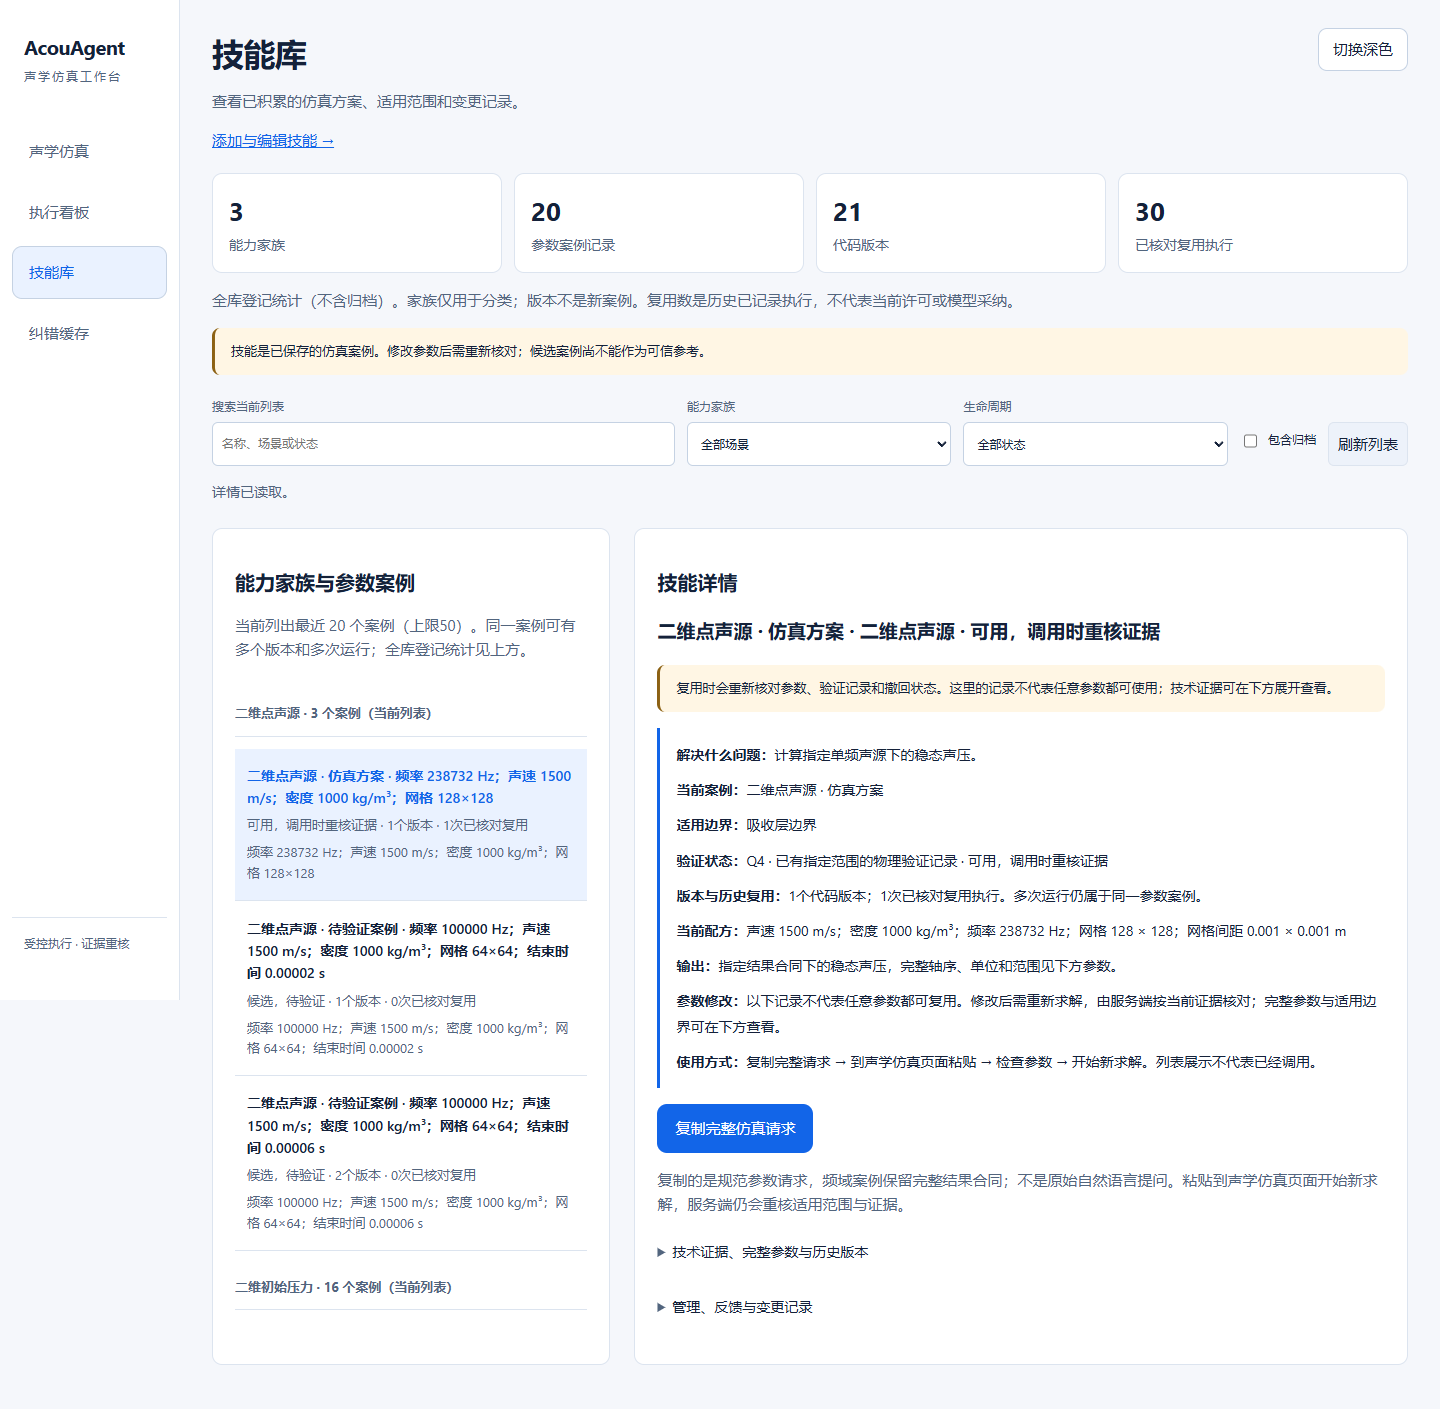
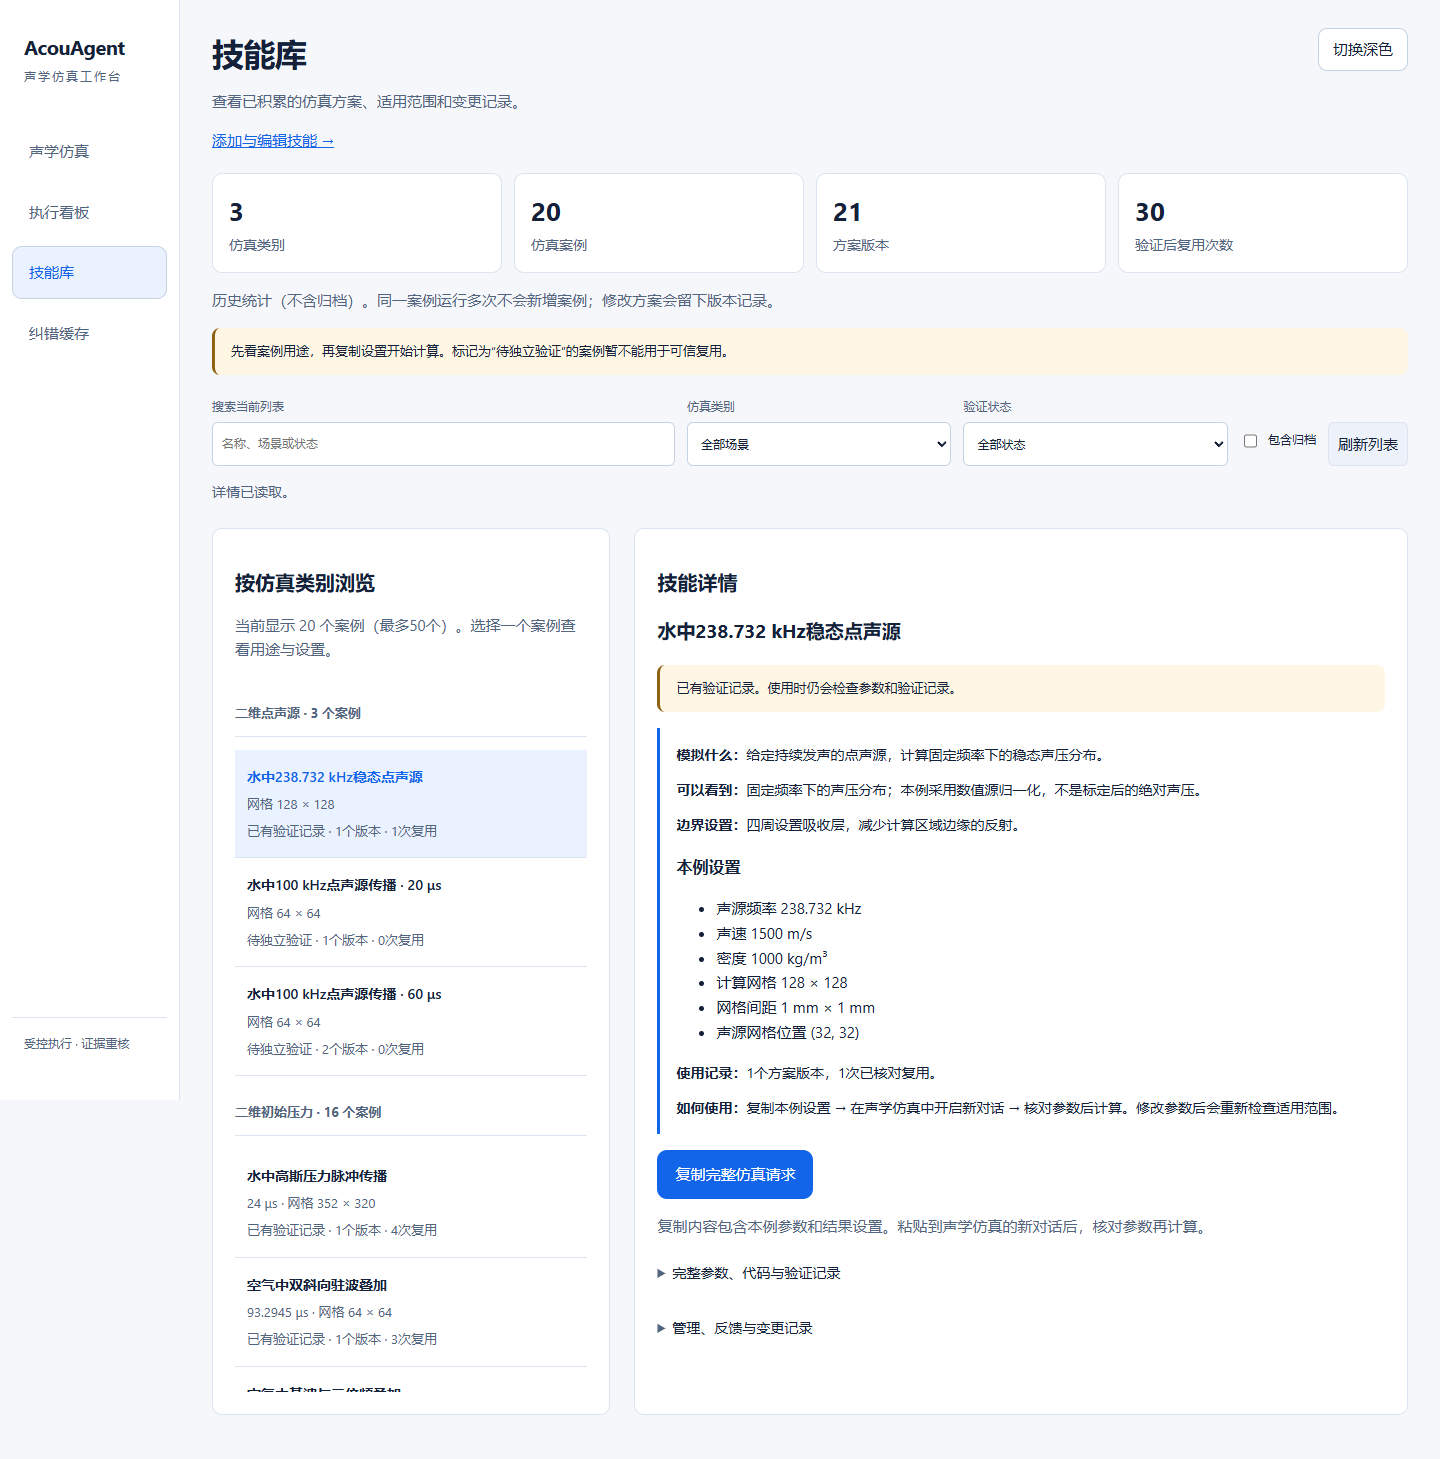
docs: 可读性 记录正式名称与介绍修正 — 三轮各92项及页面25项通过，三库内容不变

diff --git a/docs/validation/skill-usability/OPTIMIZATION_REPORT.md b/docs/validation/skill-usability/OPTIMIZATION_REPORT.md
@@ -2,6 +2,21 @@
 
 **结论：本轮优化已完成并通过正式浏览器复验。重复运行没有新增相同技能案例；三类问题均完成自动学习和真实复用。参数可在执行前核对，缺项会明确指出。结论限于本次覆盖范围，不代表任意问题或任意改参均已验证。**
 
+## 名称与介绍的二次修正
+
+上一轮虽然通过了功能检查，但列表与详情的名称仍不一致，介绍也存在套话和重复参数。本次根据实际页面重新整理了这部分。
+
+| 原来的显示问题 | 现在的显示 |
+|---|---|
+| “二维点声源·仿真方案”后面堆放一长串参数 | 水中238.732 kHz稳态点声源 |
+| 同为100 kHz的候选条目难以区分 | 水中100 kHz点声源传播 · 20 μs／60 μs |
+| 长名称反复出现“二维周期边界、固定初压模态” | 水中水平驻波、空气中双斜向驻波叠加等具体名称 |
+| 介绍只有通用模板，混入波数矩阵 | 分开说明“模拟什么、可以看到、边界设置、本例设置” |
+
+当前20个案例的显示名称均可区分，列表、详情和聊天侧栏一致；原名称、完整参数和验证记录保留在折叠详情中。显示单位改为kHz、μs、mm等，复制的计算参数仍保留完整精度。没有删除案例或合并验证记录。
+
+正式页面连续三轮各92项通过，另有25项页面检查；三份数据库的全部逻辑内容摘要未变。103项相关本机回归及GitHub全套检查、干净安装通过。本次不增加求解或学习记录，原859次执行和29条缓存保留；下方正式技能库截图已替换为最新版。
+
 ## 本轮解决了什么
 
 - 技能库区分“场景家族、参数案例、代码版本、复用执行”，保留不同介质和模态的名称；用途和边界先展示，代码及原始证据折叠。

diff --git a/AGENTS.md b/AGENTS.md
@@ -1,3 +1,5 @@
+> 2026-10-29 技能可读性修正正式交付：7ceaedc已合入main并部署。20案例的短名、用途/结果/设置说明在列表、详情和聊天统一；原始名称及技术字段折叠保留，完整计算参数复制不变。正式Chrome连续三轮各92项、页面25项通过；3库全部逻辑摘要前后一致，executor未重启。103项相关回归及全套CI、干净安装成功。上一轮交互验收并不能代表文字可读性已充分解决，报告补实际修正与最新截图。
+
 > 2026-10-29 可读性候选补充：保留用户自定义名称，未知场景不擅称点声源；主要设置补人类可读的网格间距与声源位置。最新代码103项回归、当前库副本连续三轮各93项通过，20案例均有可区分短名，列表/详情一致，数据库字节不变。候选待显式工作流CI与正式部署。
 
 > 2026-10-29 技能可读性二次修正候选：针对用户指出的同名和模板化介绍，新增只读参数说明层；20个现有案例生成短名称，列表/详情/聊天统一，100kHz的20/60μs案例可区分。介绍改为模拟内容、可看结果、边界和逐项设置；移除重复标题、参数长串、波数矩阵与首屏Q等级术语。原名称/完整参数/代码/证据保留在折叠区，用户自定义短名保留，不改指纹和质量门。103项相关回归、当前库副本连续三轮各93项浏览器及计数回归通过，副本SHA未变。待CI及正式部署，不将功能验收代替用户可读性评价。

diff --git a/docs/CHANGELOG.md b/docs/CHANGELOG.md
@@ -1,3 +1,7 @@
+## 技能名称与介绍修正已正式部署
+
+2026-10-29 技能可读性修正正式交付：7ceaedc已合入main并部署。20案例的短名、用途/结果/设置说明在列表、详情和聊天统一；原始名称及技术字段折叠保留，完整计算参数复制不变。正式Chrome连续三轮各92项、页面25项通过；3库全部逻辑摘要前后一致，executor未重启。103项相关回归及全套CI、干净安装成功。上一轮交互验收并不能代表文字可读性已充分解决，报告补实际修正与最新截图。
+
 ## 可读性候选补充检查
 
 2026-10-29 可读性候选补充：保留用户自定义名称，未知场景不擅称点声源；主要设置补人类可读的网格间距与声源位置。最新代码103项回归、当前库副本连续三轮各93项通过，20案例均有可区分短名，列表/详情一致，数据库字节不变。候选待显式工作流CI与正式部署。

diff --git a/docs/CURRENT_STATUS.md b/docs/CURRENT_STATUS.md
@@ -1,5 +1,9 @@
 # AcouAgent 当前状态
 
+## 2026-10-29 名称和介绍可读性补充修正
+
+7ceaedc已合入main并正式部署：20个案例的短名与介绍按实际参数整理，列表/详情/聊天一致，原记录与计算参数不改。正式浏览器三轮各92项、页面25项通过，三库内容摘要不变。此前的功能验收未覆盖文字质量问题，本次补充修复；[报告及正式截图](validation/skill-usability/OPTIMIZATION_REPORT.md)已更新。
+
 ## 2026-10-29 技能库优化完成正式验收
 
 PR40已合入main并部署，181运行文件核对一致；原三库23张表原始行、852执行及29缓存保留。三组自动学习与五次新run复用、改参不继承认证、正式HTTP学习/复用、精确回退与再升级通过，executor及安全约束未变。
